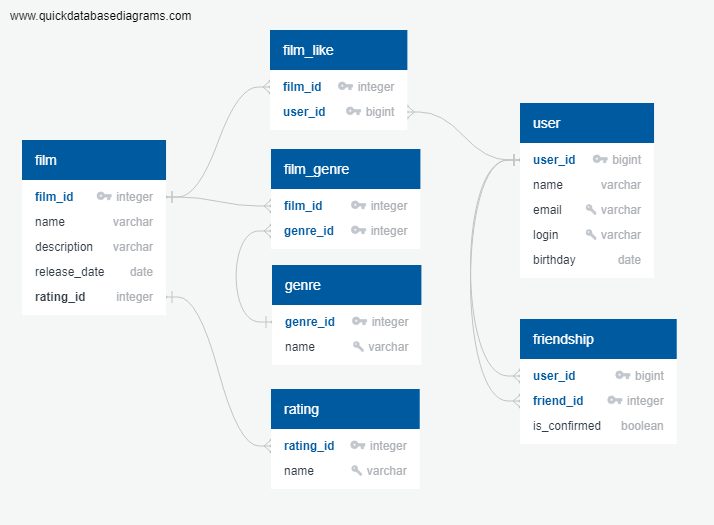
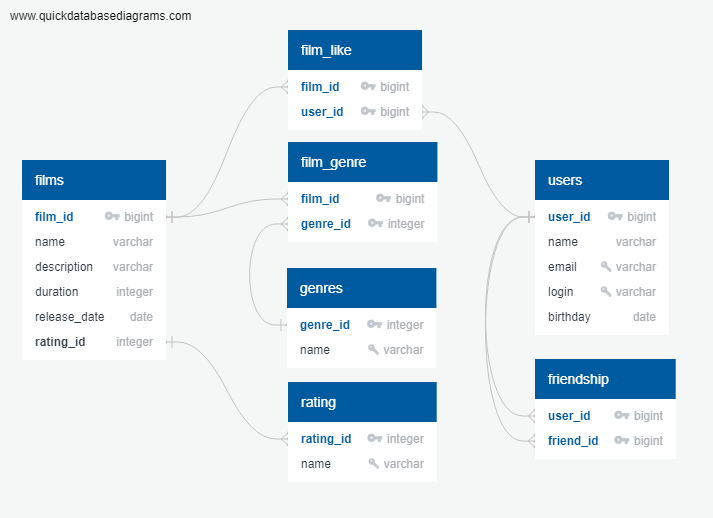
docs: изменить er-диаграмму, вернуть filmId long

diff --git a/src/main/java/ru/yandex/practicum/filmorate/model/Film.java b/src/main/java/ru/yandex/practicum/filmorate/model/Film.java
@@ -15,7 +15,7 @@ import javax.validation.constraints.Size;
 @Data
 public class Film {
     @NotNull
-    private int id;
+    private long id;
     @NotBlank
     private String name;
     @Size(max = 200)

diff --git a/README.md b/README.md
@@ -23,13 +23,13 @@ SELECT * FROM user WHERE user_id = <id>;
 
 Получение друзей пользователя по id*:
 ```
-SELECT friend_id FROM friendship WHERE user_id = <id> AND is_confirmed = TRUE;
+SELECT friend_id FROM friendship WHERE user_id = <id>;
 ```
 
 Получения общих друзей пользователей*:
 ```
 SELECT f.friend_id FROM friendship f1 INNER JOIN friendship f2 ON f1.friend_id = f2.friend_id 
-WHERE f1.user_id = <id1> AND f1.is_confirmed = TRUE AND f2.user_id = <id2> AND f2.is_confirmed = TRUE;
+WHERE f1.user_id = <id1> AND f2.user_id = <id2>;
 ```
 
 \* Пользователь считается другом, если он подтвержден.
